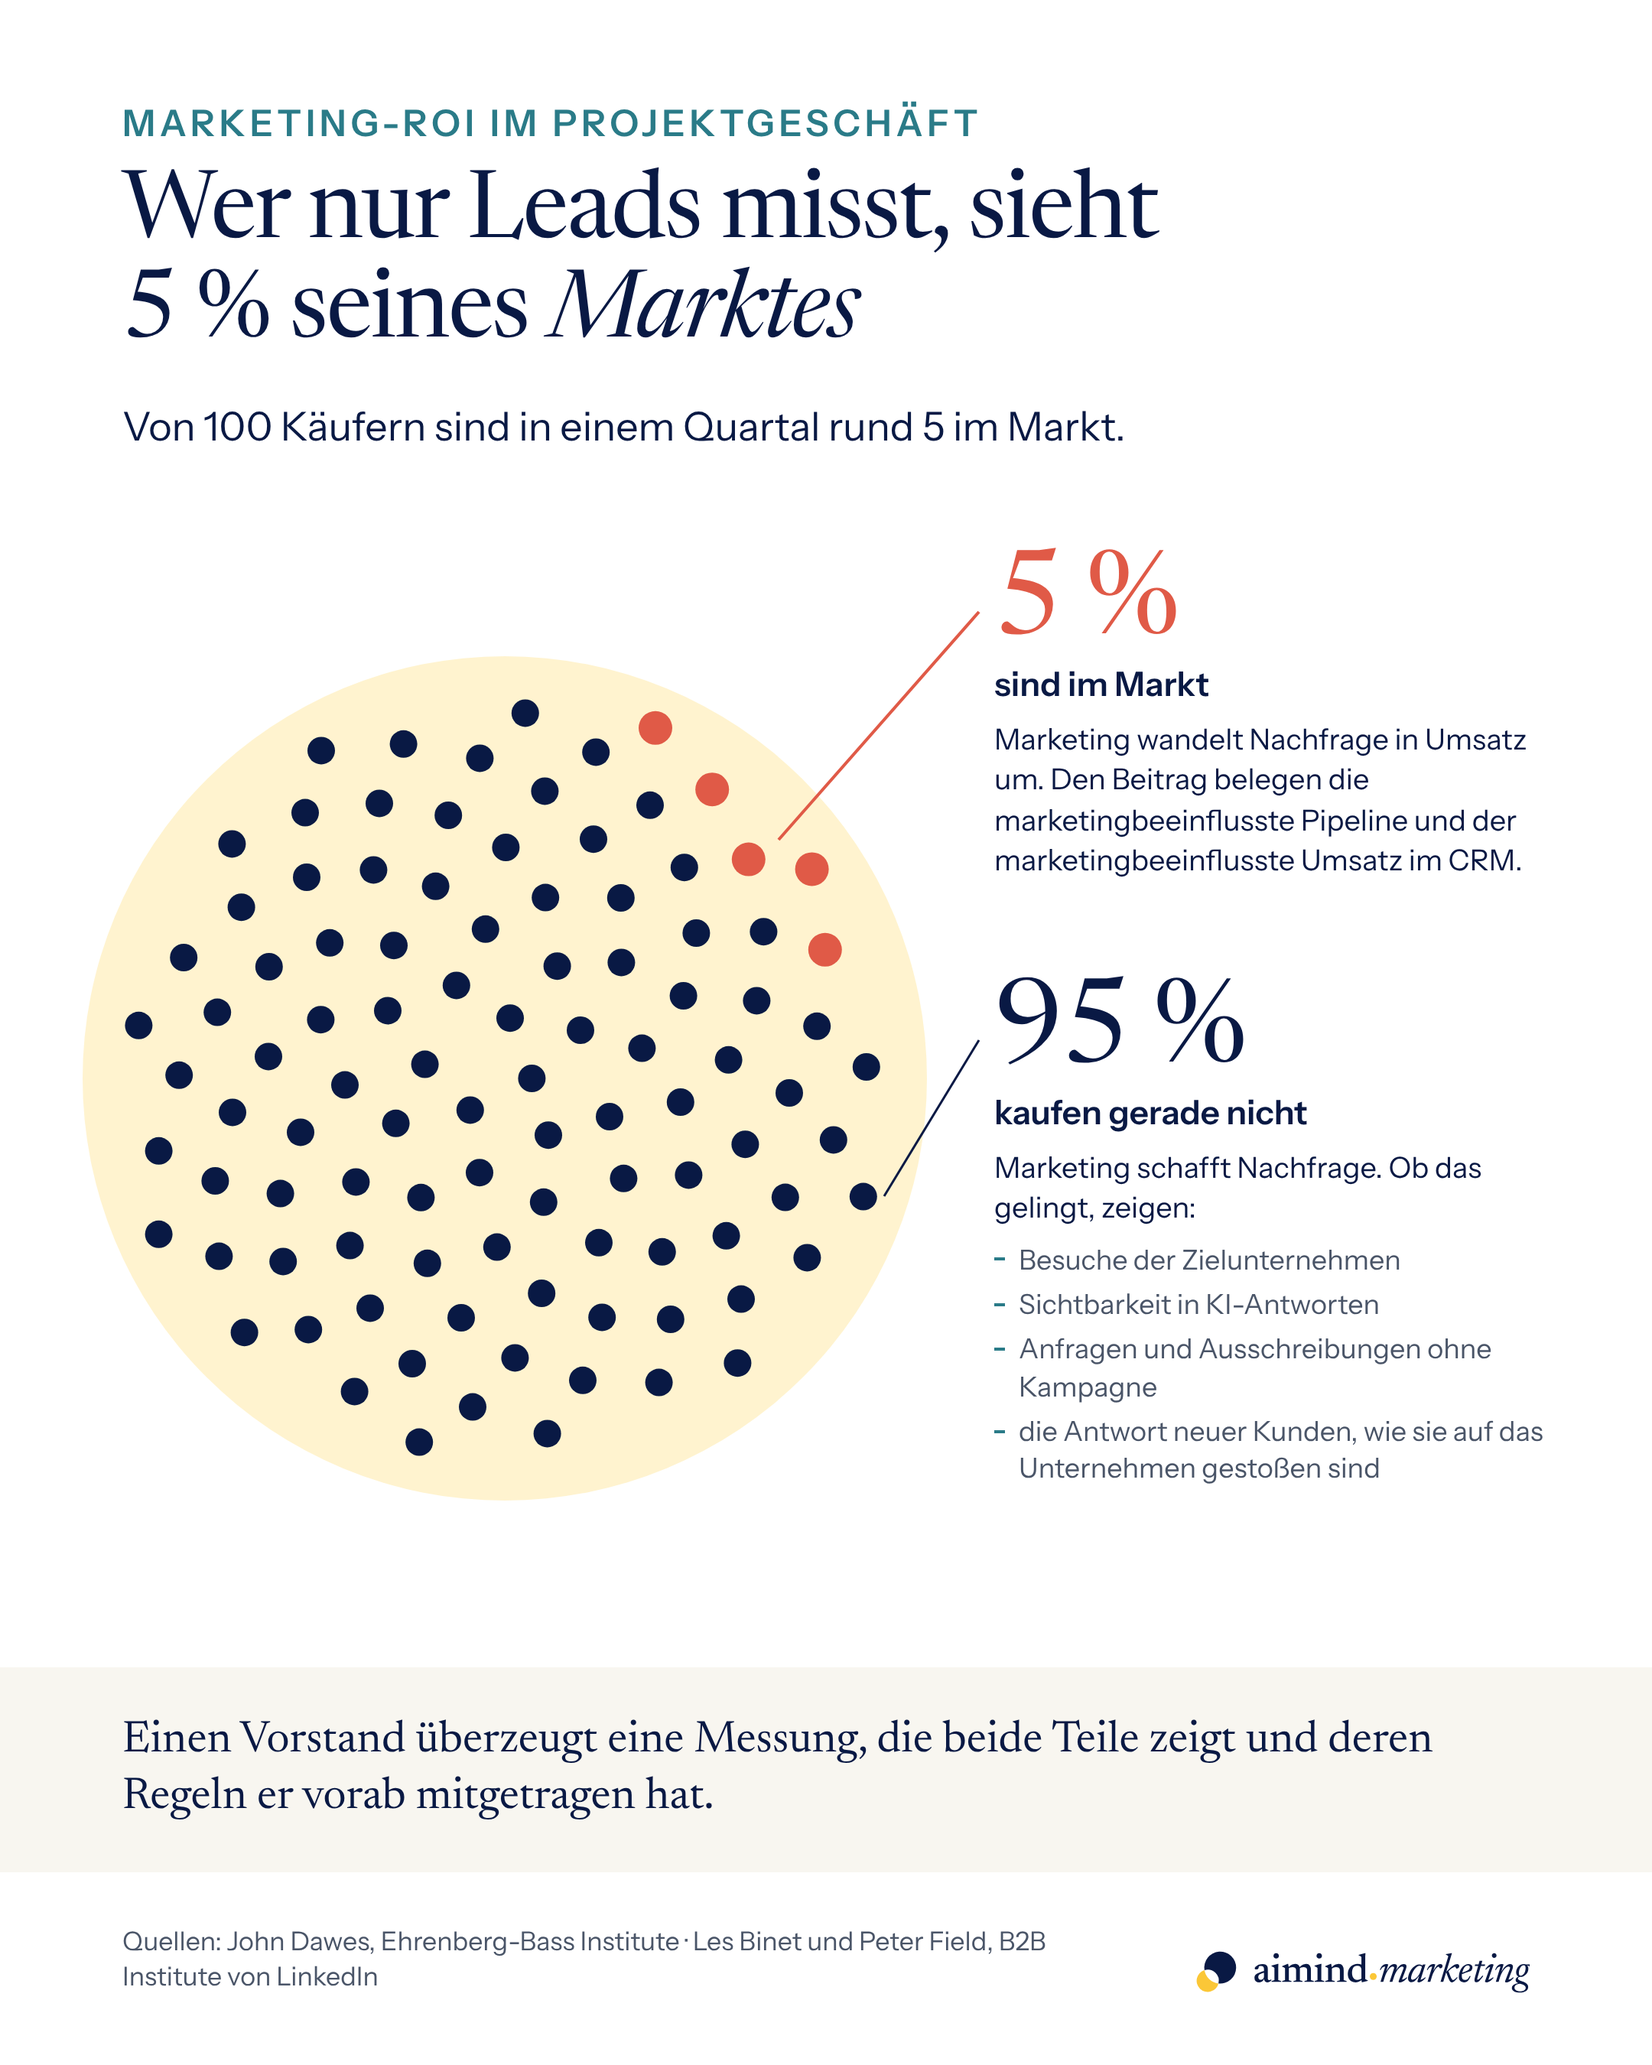
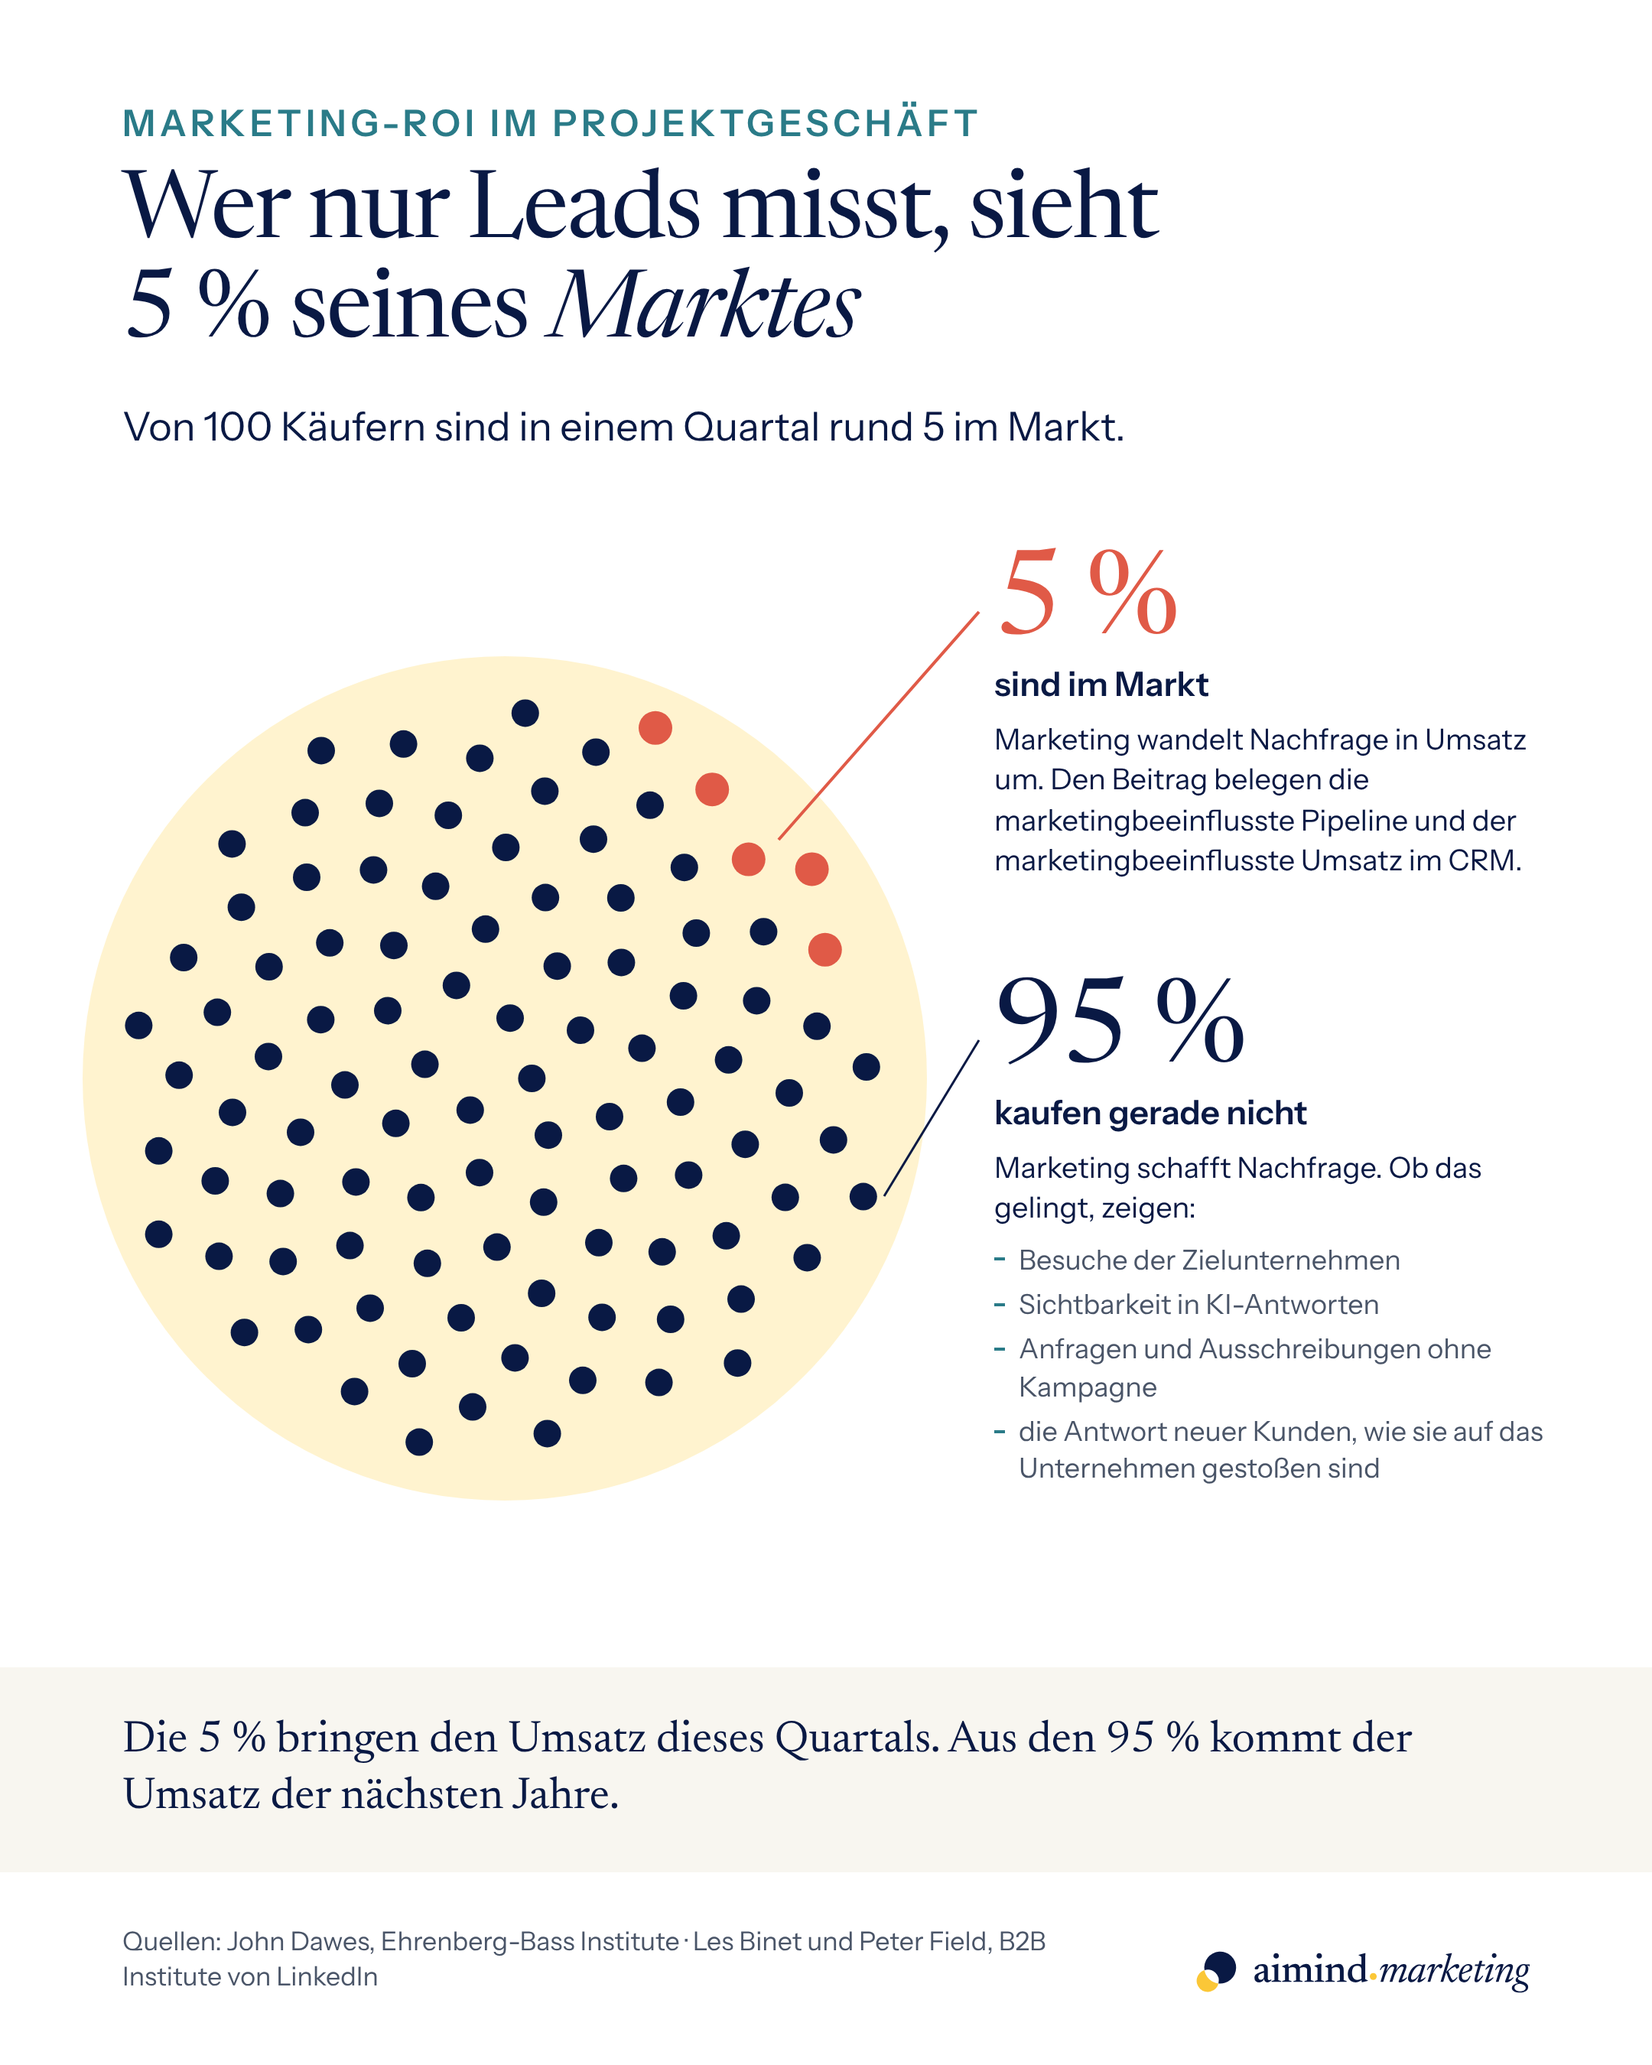
ROI infographic: band sentence on this quarter's and future revenue (DE/EN)
Claude-Session: https://claude.ai/code/session_01EoT7BpRMXSboJ4awkNYbjF

Changed region(s): [[0.062, 0.84, 0.8685, 0.9022]]

diff --git a/design/infographics/roi-market-en.html b/design/infographics/roi-market-en.html
@@ -28,7 +28,7 @@ svg{position:absolute;left:0;top:0}
 <div class="kicker">Marketing ROI in complex sales</div><h1>Measure Only Leads, and You<br>See 5% of Your <em>Market</em></h1><p class="sub">Of 100 buyers, about 5 are in the market in any given quarter.</p>
 <svg width="1080" height="1350" viewBox="0 0 1080 1350"><circle cx="330" cy="705" r="276" fill="#ffeaa7" opacity=".55"/><circle cx="347.7" cy="705.0" r="9" fill="#091944"/><circle cx="307.4" cy="725.7" r="9" fill="#091944"/><circle cx="333.5" cy="665.6" r="9" fill="#091944"/><circle cx="358.5" cy="742.1" r="9" fill="#091944"/><circle cx="277.8" cy="695.8" r="9" fill="#091944"/><circle cx="379.5" cy="673.5" r="9" fill="#091944"/><circle cx="313.5" cy="766.6" r="9" fill="#091944"/><circle cx="298.4" cy="644.2" r="9" fill="#091944"/><circle cx="398.5" cy="730.0" r="9" fill="#091944"/><circle cx="258.8" cy="734.4" r="9" fill="#091944"/><circle cx="364.3" cy="631.6" r="9" fill="#091944"/><circle cx="355.4" cy="785.9" r="9" fill="#091944"/><circle cx="253.5" cy="660.7" r="9" fill="#091944"/><circle cx="419.7" cy="685.3" r="9" fill="#091944"/><circle cx="275.2" cy="782.9" r="9" fill="#091944"/><circle cx="317.4" cy="607.4" r="9" fill="#091944"/><circle cx="407.7" cy="770.4" r="9" fill="#091944"/><circle cx="225.5" cy="709.3" r="9" fill="#091944"/><circle cx="406.2" cy="629.2" r="9" fill="#091944"/><circle cx="324.9" cy="815.3" r="9" fill="#091944"/><circle cx="257.5" cy="618.1" r="9" fill="#091944"/><circle cx="444.9" cy="720.5" r="9" fill="#091944"/><circle cx="232.7" cy="772.7" r="9" fill="#091944"/><circle cx="356.6" cy="586.8" r="9" fill="#091944"/><circle cx="391.5" cy="812.4" r="9" fill="#091944"/><circle cx="209.7" cy="666.6" r="9" fill="#091944"/><circle cx="446.8" cy="651.0" r="9" fill="#091944"/><circle cx="279.4" cy="825.9" r="9" fill="#091944"/><circle cx="284.8" cy="579.4" r="9" fill="#091944"/><circle cx="450.2" cy="768.2" r="9" fill="#091944"/><circle cx="196.5" cy="740.2" r="9" fill="#091944"/><circle cx="405.9" cy="587.0" r="9" fill="#091944"/><circle cx="354.1" cy="845.5" r="9" fill="#091944"/><circle cx="215.6" cy="616.4" r="9" fill="#091944"/><circle cx="476.3" cy="692.9" r="9" fill="#091944"/><circle cx="228.8" cy="814.3" r="9" fill="#091944"/><circle cx="330.7" cy="554.0" r="9" fill="#091944"/><circle cx="432.9" cy="818.4" r="9" fill="#091944"/><circle cx="175.5" cy="690.7" r="9" fill="#091944"/><circle cx="455.2" cy="610.0" r="9" fill="#091944"/><circle cx="301.5" cy="861.5" r="9" fill="#091944"/><circle cx="244.2" cy="568.7" r="9" fill="#091944"/><circle cx="487.2" cy="748.1" r="9" fill="#091944"/><circle cx="183.3" cy="780.3" r="9" fill="#091944"/><circle cx="388.0" cy="548.6" r="9" fill="#091944"/><circle cx="393.6" cy="861.2" r="9" fill="#091944"/><circle cx="175.9" cy="632.0" r="9" fill="#091944"/><circle cx="494.7" cy="654.2" r="9" fill="#091944"/><circle cx="242.0" cy="855.2" r="9" fill="#091944"/><circle cx="293.1" cy="533.0" r="9" fill="#091944"/><circle cx="474.8" cy="807.9" r="9" fill="#091944"/><circle cx="152.0" cy="727.2" r="9" fill="#091944"/><circle cx="447.4" cy="567.1" r="9" fill="#091944"/><circle cx="336.7" cy="887.7" r="9" fill="#091944"/><circle cx="200.5" cy="573.5" r="9" fill="#091944"/><circle cx="516.0" cy="714.5" r="9" fill="#091944"/><circle cx="185.1" cy="824.7" r="9" fill="#091944"/><circle cx="356.2" cy="517.2" r="9" fill="#091944"/><circle cx="438.4" cy="862.5" r="9" fill="#091944"/><circle cx="142.1" cy="661.8" r="9" fill="#091944"/><circle cx="499.2" cy="609.1" r="9" fill="#091944"/><circle cx="269.5" cy="891.5" r="9" fill="#091944"/><circle cx="248.0" cy="525.2" r="9" fill="#091944"/><circle cx="513.4" cy="782.8" r="9" fill="#091944"/><circle cx="140.7" cy="772.0" r="9" fill="#091944"/><circle cx="425.0" cy="526.4" r="9" fill="#091944"/><circle cx="381.0" cy="902.4" r="9" fill="#091944"/><circle cx="157.8" cy="593.1" r="9" fill="#091944"/><circle cx="534.1" cy="670.9" r="9" fill="#091944"/><circle cx="201.6" cy="869.2" r="9" fill="#091944"/><circle cx="313.7" cy="495.7" r="9" fill="#091944"/><circle cx="484.5" cy="849.3" r="9" fill="#091944"/><circle cx="117.1" cy="702.9" r="9" fill="#091944"/><circle cx="489.4" cy="561.8" r="11" fill="#e05a47"/><circle cx="309.0" cy="919.8" r="9" fill="#091944"/><circle cx="199.5" cy="531.3" r="9" fill="#091944"/><circle cx="544.9" cy="745.2" r="9" fill="#091944"/><circle cx="143.2" cy="821.3" r="9" fill="#091944"/><circle cx="389.6" cy="491.7" r="9" fill="#091944"/><circle cx="430.8" cy="903.8" r="9" fill="#091944"/><circle cx="120.1" cy="626.0" r="9" fill="#091944"/><circle cx="539.4" cy="620.9" r="11" fill="#e05a47"/><circle cx="231.8" cy="909.7" r="9" fill="#091944"/><circle cx="263.8" cy="486.4" r="9" fill="#091944"/><circle cx="527.7" cy="822.2" r="9" fill="#091944"/><circle cx="103.8" cy="752.4" r="9" fill="#091944"/><circle cx="465.6" cy="516.1" r="11" fill="#e05a47"/><circle cx="357.8" cy="937.2" r="9" fill="#091944"/><circle cx="151.7" cy="551.7" r="9" fill="#091944"/><circle cx="566.4" cy="697.5" r="9" fill="#091944"/><circle cx="159.8" cy="871.1" r="9" fill="#091944"/><circle cx="343.4" cy="466.2" r="9" fill="#091944"/><circle cx="482.2" cy="891.1" r="9" fill="#091944"/><circle cx="90.7" cy="670.4" r="9" fill="#091944"/><circle cx="530.8" cy="568.2" r="11" fill="#e05a47"/><circle cx="274.1" cy="942.8" r="9" fill="#091944"/><circle cx="210.0" cy="490.7" r="9" fill="#091944"/><circle cx="564.4" cy="782.3" r="9" fill="#091944"/><circle cx="103.8" cy="806.9" r="9" fill="#091944"/><circle cx="428.5" cy="475.9" r="11" fill="#e05a47"/><path d="M509,549 L640,400" stroke="#e05a47" stroke-width="2" fill="none"/><path d="M578,782 L640,680" stroke="#091944" stroke-width="1.5" fill="none"/></svg>
 <div class="blk c5" style="top:360px"><div class="n">5%</div><div class="t">are in the market</div><p>Marketing converts demand into revenue. Marketing-influenced pipeline and revenue in the CRM prove the contribution.</p></div>
-<div class="blk" style="top:640px"><div class="n">95%</div><div class="t">aren't buying right now</div><p>Marketing creates demand. The signs that it works:</p><ul><li>Visits from target accounts</li><li>Visibility in AI answers</li><li>Inquiries and requests for proposals that arrive without a campaign</li><li>What new customers say brought them in</li></ul></div>
-<div class="band"><p>The C-suite trusts measurement that shows both parts and whose rules it agreed to in advance.</p></div>
+<div class="blk" style="top:640px"><div class="n">95%</div><div class="t">aren’t buying right now</div><p>Marketing creates demand. The signs that it works:</p><ul><li>Visits from target accounts</li><li>Visibility in AI answers</li><li>Inquiries and requests for proposals that arrive without a campaign</li><li>What new customers say brought them in</li></ul></div>
+<div class="band"><p>The 5% bring this quarter's revenue. The 95% hold the revenue of the years ahead.</p></div>
 <div class="foot"><div class="src">Sources: John Dawes, Ehrenberg-Bass Institute · Les Binet and Peter Field, LinkedIn's B2B Institute</div><img src="../logo/svg/aimind-logo.svg" alt="aimind.marketing"></div>
 </body></html>

diff --git a/design/infographics/roi-market-de.html b/design/infographics/roi-market-de.html
@@ -29,6 +29,6 @@ svg{position:absolute;left:0;top:0}
 <svg width="1080" height="1350" viewBox="0 0 1080 1350"><circle cx="330" cy="705" r="276" fill="#ffeaa7" opacity=".55"/><circle cx="347.7" cy="705.0" r="9" fill="#091944"/><circle cx="307.4" cy="725.7" r="9" fill="#091944"/><circle cx="333.5" cy="665.6" r="9" fill="#091944"/><circle cx="358.5" cy="742.1" r="9" fill="#091944"/><circle cx="277.8" cy="695.8" r="9" fill="#091944"/><circle cx="379.5" cy="673.5" r="9" fill="#091944"/><circle cx="313.5" cy="766.6" r="9" fill="#091944"/><circle cx="298.4" cy="644.2" r="9" fill="#091944"/><circle cx="398.5" cy="730.0" r="9" fill="#091944"/><circle cx="258.8" cy="734.4" r="9" fill="#091944"/><circle cx="364.3" cy="631.6" r="9" fill="#091944"/><circle cx="355.4" cy="785.9" r="9" fill="#091944"/><circle cx="253.5" cy="660.7" r="9" fill="#091944"/><circle cx="419.7" cy="685.3" r="9" fill="#091944"/><circle cx="275.2" cy="782.9" r="9" fill="#091944"/><circle cx="317.4" cy="607.4" r="9" fill="#091944"/><circle cx="407.7" cy="770.4" r="9" fill="#091944"/><circle cx="225.5" cy="709.3" r="9" fill="#091944"/><circle cx="406.2" cy="629.2" r="9" fill="#091944"/><circle cx="324.9" cy="815.3" r="9" fill="#091944"/><circle cx="257.5" cy="618.1" r="9" fill="#091944"/><circle cx="444.9" cy="720.5" r="9" fill="#091944"/><circle cx="232.7" cy="772.7" r="9" fill="#091944"/><circle cx="356.6" cy="586.8" r="9" fill="#091944"/><circle cx="391.5" cy="812.4" r="9" fill="#091944"/><circle cx="209.7" cy="666.6" r="9" fill="#091944"/><circle cx="446.8" cy="651.0" r="9" fill="#091944"/><circle cx="279.4" cy="825.9" r="9" fill="#091944"/><circle cx="284.8" cy="579.4" r="9" fill="#091944"/><circle cx="450.2" cy="768.2" r="9" fill="#091944"/><circle cx="196.5" cy="740.2" r="9" fill="#091944"/><circle cx="405.9" cy="587.0" r="9" fill="#091944"/><circle cx="354.1" cy="845.5" r="9" fill="#091944"/><circle cx="215.6" cy="616.4" r="9" fill="#091944"/><circle cx="476.3" cy="692.9" r="9" fill="#091944"/><circle cx="228.8" cy="814.3" r="9" fill="#091944"/><circle cx="330.7" cy="554.0" r="9" fill="#091944"/><circle cx="432.9" cy="818.4" r="9" fill="#091944"/><circle cx="175.5" cy="690.7" r="9" fill="#091944"/><circle cx="455.2" cy="610.0" r="9" fill="#091944"/><circle cx="301.5" cy="861.5" r="9" fill="#091944"/><circle cx="244.2" cy="568.7" r="9" fill="#091944"/><circle cx="487.2" cy="748.1" r="9" fill="#091944"/><circle cx="183.3" cy="780.3" r="9" fill="#091944"/><circle cx="388.0" cy="548.6" r="9" fill="#091944"/><circle cx="393.6" cy="861.2" r="9" fill="#091944"/><circle cx="175.9" cy="632.0" r="9" fill="#091944"/><circle cx="494.7" cy="654.2" r="9" fill="#091944"/><circle cx="242.0" cy="855.2" r="9" fill="#091944"/><circle cx="293.1" cy="533.0" r="9" fill="#091944"/><circle cx="474.8" cy="807.9" r="9" fill="#091944"/><circle cx="152.0" cy="727.2" r="9" fill="#091944"/><circle cx="447.4" cy="567.1" r="9" fill="#091944"/><circle cx="336.7" cy="887.7" r="9" fill="#091944"/><circle cx="200.5" cy="573.5" r="9" fill="#091944"/><circle cx="516.0" cy="714.5" r="9" fill="#091944"/><circle cx="185.1" cy="824.7" r="9" fill="#091944"/><circle cx="356.2" cy="517.2" r="9" fill="#091944"/><circle cx="438.4" cy="862.5" r="9" fill="#091944"/><circle cx="142.1" cy="661.8" r="9" fill="#091944"/><circle cx="499.2" cy="609.1" r="9" fill="#091944"/><circle cx="269.5" cy="891.5" r="9" fill="#091944"/><circle cx="248.0" cy="525.2" r="9" fill="#091944"/><circle cx="513.4" cy="782.8" r="9" fill="#091944"/><circle cx="140.7" cy="772.0" r="9" fill="#091944"/><circle cx="425.0" cy="526.4" r="9" fill="#091944"/><circle cx="381.0" cy="902.4" r="9" fill="#091944"/><circle cx="157.8" cy="593.1" r="9" fill="#091944"/><circle cx="534.1" cy="670.9" r="9" fill="#091944"/><circle cx="201.6" cy="869.2" r="9" fill="#091944"/><circle cx="313.7" cy="495.7" r="9" fill="#091944"/><circle cx="484.5" cy="849.3" r="9" fill="#091944"/><circle cx="117.1" cy="702.9" r="9" fill="#091944"/><circle cx="489.4" cy="561.8" r="11" fill="#e05a47"/><circle cx="309.0" cy="919.8" r="9" fill="#091944"/><circle cx="199.5" cy="531.3" r="9" fill="#091944"/><circle cx="544.9" cy="745.2" r="9" fill="#091944"/><circle cx="143.2" cy="821.3" r="9" fill="#091944"/><circle cx="389.6" cy="491.7" r="9" fill="#091944"/><circle cx="430.8" cy="903.8" r="9" fill="#091944"/><circle cx="120.1" cy="626.0" r="9" fill="#091944"/><circle cx="539.4" cy="620.9" r="11" fill="#e05a47"/><circle cx="231.8" cy="909.7" r="9" fill="#091944"/><circle cx="263.8" cy="486.4" r="9" fill="#091944"/><circle cx="527.7" cy="822.2" r="9" fill="#091944"/><circle cx="103.8" cy="752.4" r="9" fill="#091944"/><circle cx="465.6" cy="516.1" r="11" fill="#e05a47"/><circle cx="357.8" cy="937.2" r="9" fill="#091944"/><circle cx="151.7" cy="551.7" r="9" fill="#091944"/><circle cx="566.4" cy="697.5" r="9" fill="#091944"/><circle cx="159.8" cy="871.1" r="9" fill="#091944"/><circle cx="343.4" cy="466.2" r="9" fill="#091944"/><circle cx="482.2" cy="891.1" r="9" fill="#091944"/><circle cx="90.7" cy="670.4" r="9" fill="#091944"/><circle cx="530.8" cy="568.2" r="11" fill="#e05a47"/><circle cx="274.1" cy="942.8" r="9" fill="#091944"/><circle cx="210.0" cy="490.7" r="9" fill="#091944"/><circle cx="564.4" cy="782.3" r="9" fill="#091944"/><circle cx="103.8" cy="806.9" r="9" fill="#091944"/><circle cx="428.5" cy="475.9" r="11" fill="#e05a47"/><path d="M509,549 L640,400" stroke="#e05a47" stroke-width="2" fill="none"/><path d="M578,782 L640,680" stroke="#091944" stroke-width="1.5" fill="none"/></svg>
 <div class="blk c5" style="top:360px"><div class="n">5&nbsp;%</div><div class="t">sind im Markt</div><p>Marketing wandelt Nachfrage in Umsatz um. Den Beitrag belegen die marketingbeeinflusste Pipeline und der marketingbeeinflusste Umsatz im CRM.</p></div>
 <div class="blk" style="top:640px"><div class="n">95&nbsp;%</div><div class="t">kaufen gerade nicht</div><p>Marketing schafft Nachfrage. Ob das gelingt, zeigen:</p><ul><li>Besuche der Zielunternehmen</li><li>Sichtbarkeit in KI-Antworten</li><li>Anfragen und Ausschreibungen ohne Kampagne</li><li>die Antwort neuer Kunden, wie sie auf das Unternehmen gestoßen sind</li></ul></div>
-<div class="band"><p>Einen Vorstand überzeugt eine Messung, die beide Teile zeigt und deren Regeln er vorab mitgetragen hat.</p></div>
+<div class="band"><p>Die 5&nbsp;% bringen den Umsatz dieses Quartals. Aus den 95&nbsp;% kommt der Umsatz der nächsten Jahre.</p></div>
 <div class="foot"><div class="src">Quellen: John Dawes, Ehrenberg-Bass Institute · Les Binet und Peter Field, B2B Institute von LinkedIn</div><img src="../logo/svg/aimind-logo.svg" alt="aimind.marketing"></div>
 </body></html>
